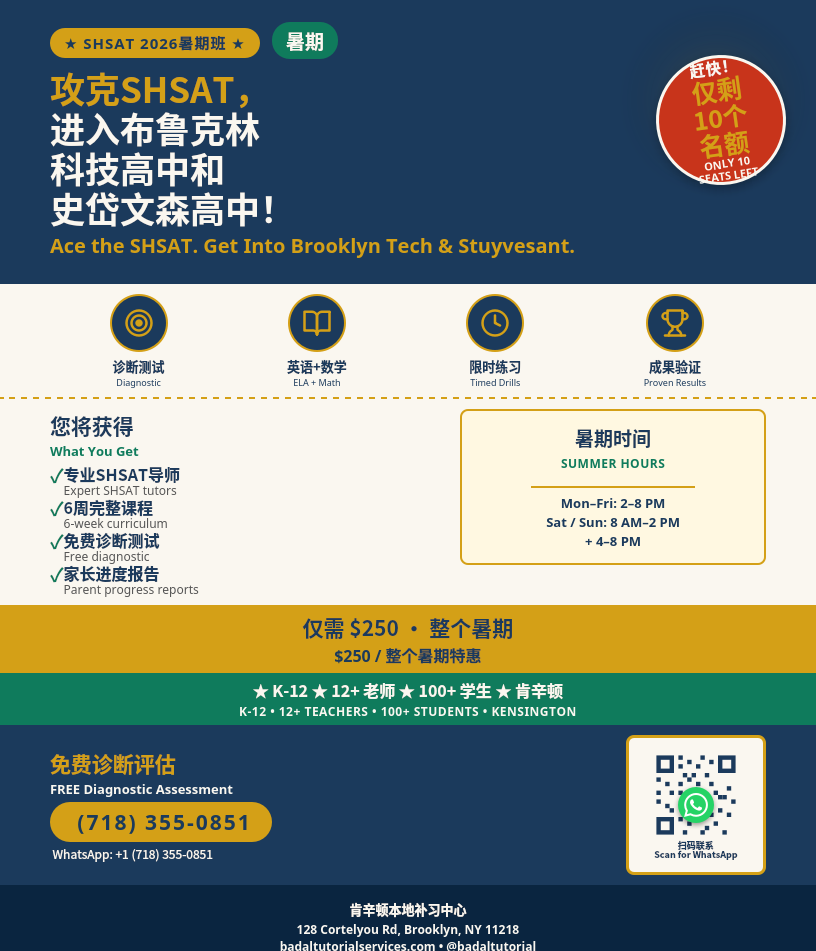
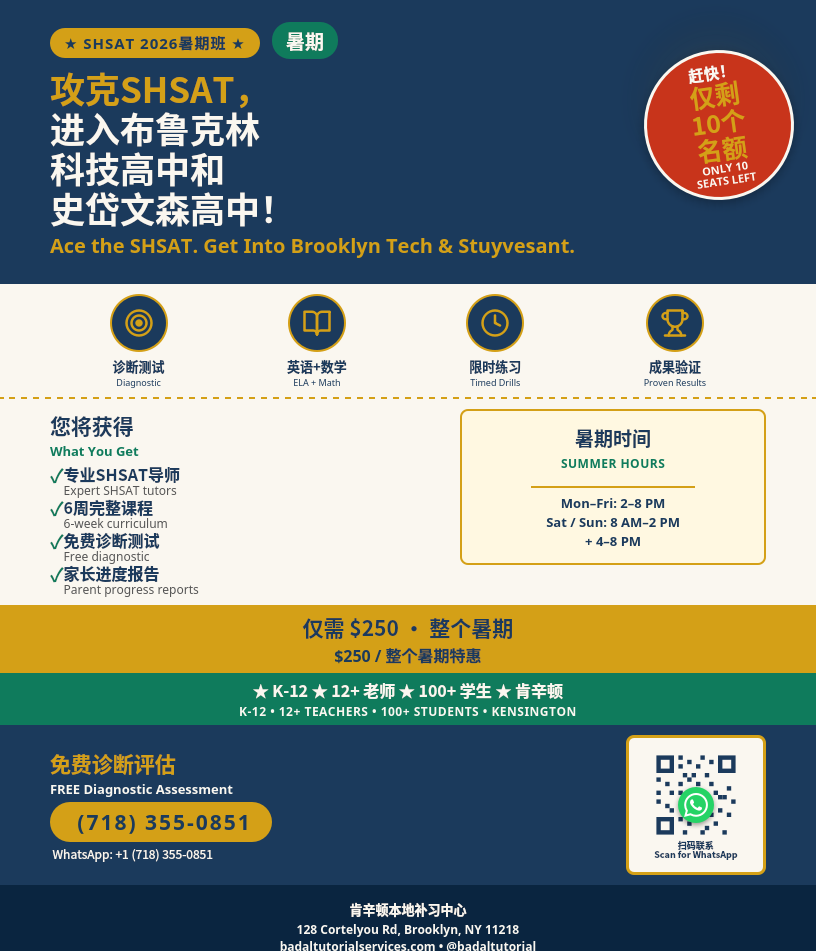
Enlarge urgent badge 130→150px to fix text overflow
User reported Uzbek SHSAT badge text still spilling past red disk.
Pixel check: 9 cream pixels outside 130px disk, all at top arc (HURRY!
clipped by circle). Bumped to 150px disk, letter-spacing 1→0.5px,
slight position adjust. Re-rendered, 0 overflow pixels in both uz + zh.

Changed region(s): [[0.7659, 0.0305, 0.9804, 0.2135]]

diff --git a/flyers/uz/shsat-uz.html b/flyers/uz/shsat-uz.html
@@ -14,10 +14,10 @@
   .hero { background: #1B3A5C; color: #FAF7F0; padding: 22px 50px 24px; position: relative; overflow: hidden; }
   .hero::before { content: ''; position: absolute; top: 0; right: 0; width: 200px; height: 200px; background: radial-gradient(circle, rgba(212,160,23,0.18) 0%, transparent 70%); }
 
-  .urgent-badge { position: absolute; top: 55px; right: 30px; width: 130px; height: 130px; background: #C8341B; color: #FAF7F0; border-radius: 50%; display: flex; flex-direction: column; align-items: center; justify-content: center; text-align: center; font-family: 'BodySans', sans-serif; font-weight: 900; line-height: 1.1; box-shadow: 0 4px 12px rgba(0,0,0,0.3); border: 3px solid #FAF7F0; z-index: 10; transform: rotate(-8deg); }
-  .urgent-badge .urgent-top { font-size: 11pt; letter-spacing: 1px; }
-  .urgent-badge .urgent-mid { font-size: 18pt; color: #D4A017; margin: 1px 0; }
-  .urgent-badge .urgent-bot { font-size: 8pt; font-weight: 700; }
+  .urgent-badge { position: absolute; top: 50px; right: 22px; width: 150px; height: 150px; background: #C8341B; color: #FAF7F0; border-radius: 50%; display: flex; flex-direction: column; align-items: center; justify-content: center; text-align: center; font-family: 'BodySans', sans-serif; font-weight: 900; line-height: 1.1; box-shadow: 0 4px 12px rgba(0,0,0,0.3); border: 3px solid #FAF7F0; z-index: 10; transform: rotate(-8deg); }
+  .urgent-badge .urgent-top { font-size: 11pt; letter-spacing: 0.5px; }
+  .urgent-badge .urgent-mid { font-size: 19pt; color: #D4A017; margin: 1px 0; }
+  .urgent-badge .urgent-bot { font-size: 8pt; font-weight: 700; line-height: 1.15; }
 
   .badge { display: inline-block; background: #D4A017; color: #1B3A5C; padding: 4px 14px; border-radius: 18px; font-size: 11pt; font-weight: 700; letter-spacing: 1px; margin-bottom: 10px; font-family: 'BodySans', sans-serif; }
   .badge-uz { display: inline-block; background: #0F7B5C; color: #FAF7F0; padding: 4px 14px; border-radius: 18px; font-size: 13pt; font-weight: 700; margin-left: 8px; font-family: 'BodySans', sans-serif; }

diff --git a/flyers/zh/shsat-zh.html b/flyers/zh/shsat-zh.html
@@ -17,10 +17,10 @@
   .hero { background: #1B3A5C; color: #FAF7F0; padding: 22px 50px 24px; position: relative; overflow: hidden; }
   .hero::before { content: ''; position: absolute; top: 0; right: 0; width: 200px; height: 200px; background: radial-gradient(circle, rgba(212,160,23,0.18) 0%, transparent 70%); }
 
-  .urgent-badge { position: absolute; top: 55px; right: 30px; width: 130px; height: 130px; background: #C8341B; color: #FAF7F0; border-radius: 50%; display: flex; flex-direction: column; align-items: center; justify-content: center; text-align: center; font-family: 'BodySans', 'ZhFont', sans-serif; font-weight: 900; line-height: 1.1; box-shadow: 0 4px 12px rgba(0,0,0,0.3); border: 3px solid #FAF7F0; z-index: 10; transform: rotate(-8deg); }
-  .urgent-badge .urgent-top { font-size: 11pt; letter-spacing: 1px; }
+  .urgent-badge { position: absolute; top: 50px; right: 22px; width: 150px; height: 150px; background: #C8341B; color: #FAF7F0; border-radius: 50%; display: flex; flex-direction: column; align-items: center; justify-content: center; text-align: center; font-family: 'BodySans', 'ZhFont', sans-serif; font-weight: 900; line-height: 1.1; box-shadow: 0 4px 12px rgba(0,0,0,0.3); border: 3px solid #FAF7F0; z-index: 10; transform: rotate(-8deg); }
+  .urgent-badge .urgent-top { font-size: 11pt; letter-spacing: 0.5px; }
   .urgent-badge .urgent-mid { font-size: 19pt; color: #D4A017; margin: 1px 0; font-family: 'ZhFont', sans-serif; }
-  .urgent-badge .urgent-bot { font-size: 8pt; font-weight: 700; }
+  .urgent-badge .urgent-bot { font-size: 8pt; font-weight: 700; line-height: 1.15; }
 
   .badge { display: inline-block; background: #D4A017; color: #1B3A5C; padding: 4px 14px; border-radius: 18px; font-size: 11pt; font-weight: 700; letter-spacing: 1px; margin-bottom: 10px; font-family: 'BodySans', sans-serif; }
   .badge-zh { display: inline-block; background: #0F7B5C; color: #FAF7F0; padding: 4px 14px; border-radius: 18px; font-size: 14pt; font-weight: 700; margin-left: 8px; font-family: 'ZhFont', sans-serif; }
